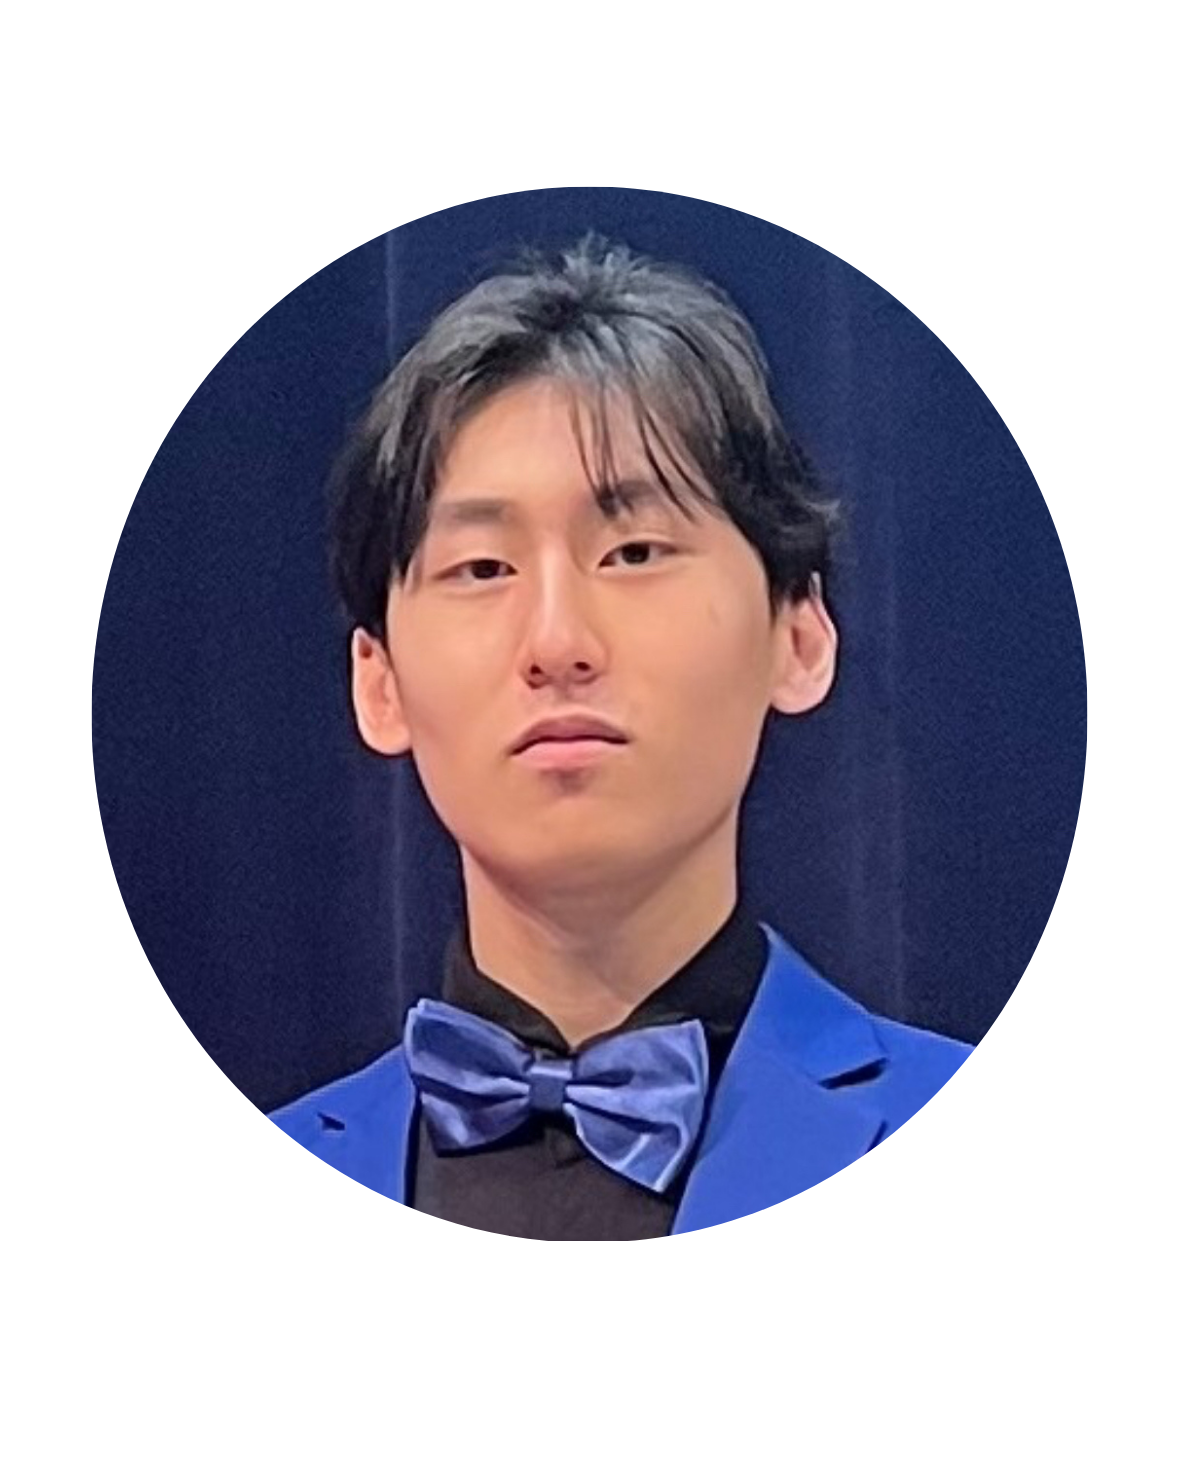
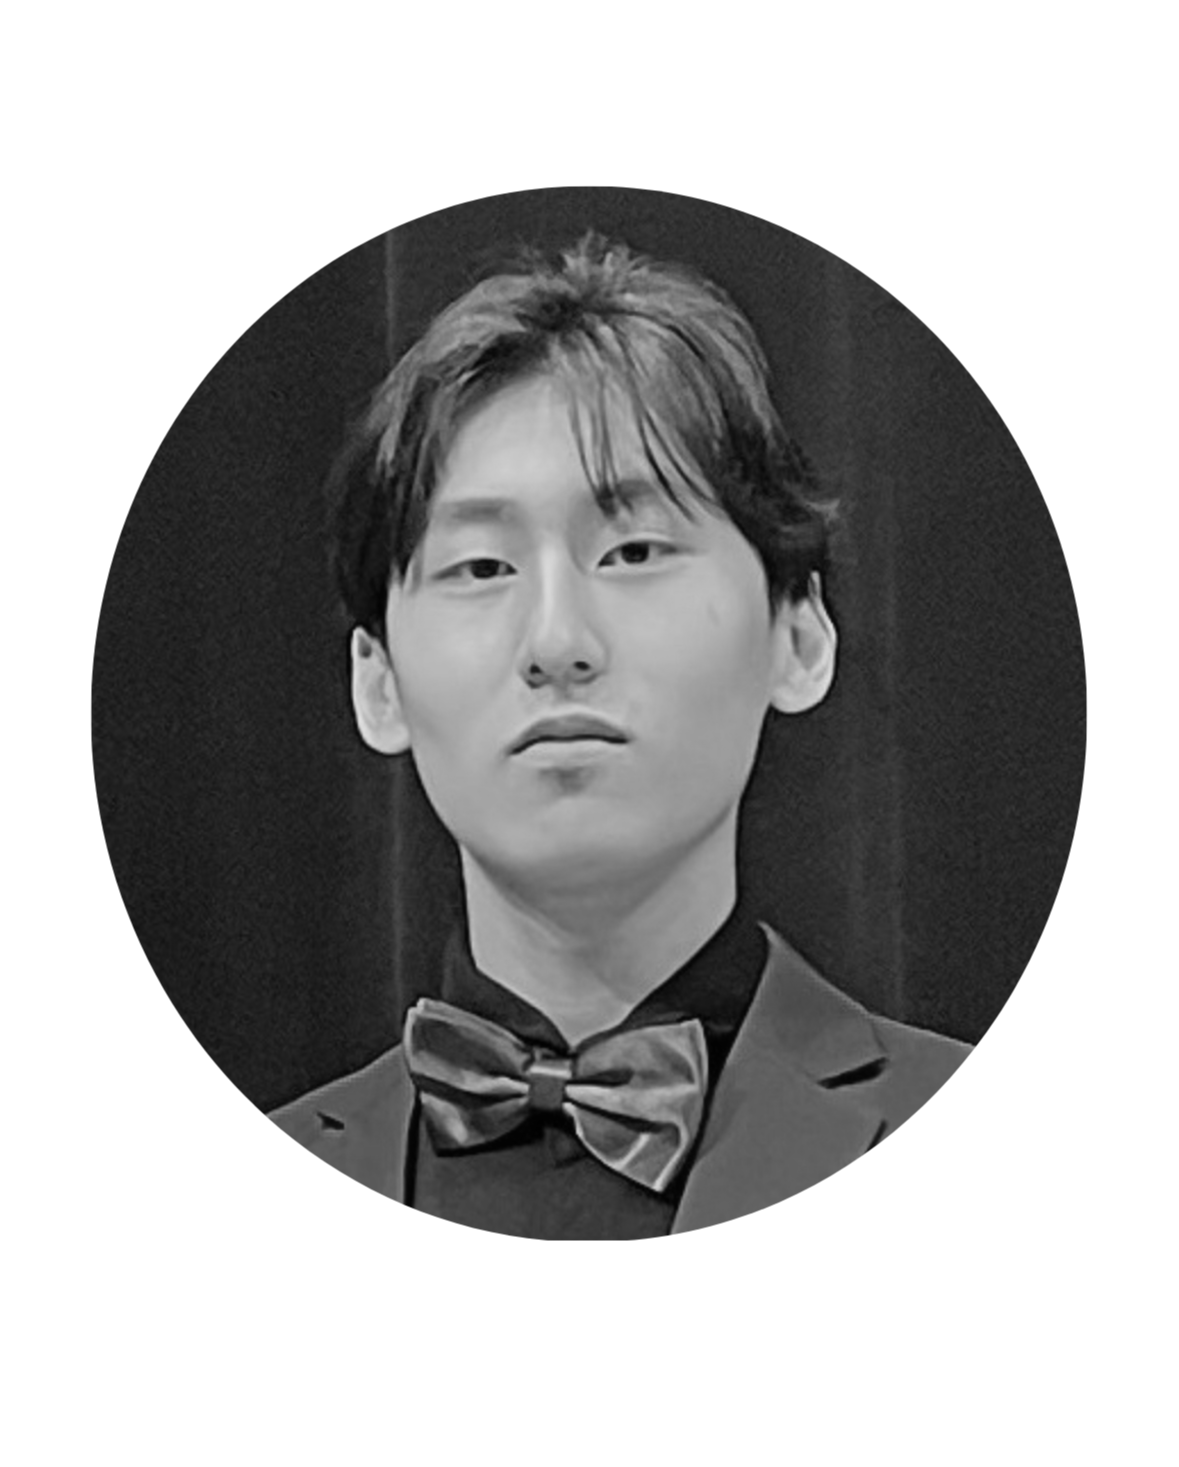
Working on color scheme/cleaning up home section

diff --git a/webportfolio/src/Home/Home.css b/webportfolio/src/Home/Home.css
@@ -1,3 +1,7 @@
+#fullHome {
+  background-color: #000;
+}
+
 #homeGrid {
   display: grid;
   grid-template-rows: auto auto;
@@ -6,7 +10,8 @@
   align-items: center;
   justify-items: center;
   margin: 0 auto;
-  margin-bottom: 200px;
+  padding-top: 100px;
+  min-height: 100vh;
 }
 
 #headshot{
@@ -18,6 +23,7 @@
 .homeText p{
   font-size: 30px;
   line-height: 40px;
+  color: rgb(245, 245, 247);
 }
 
 .buttons button {
@@ -26,10 +32,16 @@
   width: 192px;
   height: 28px;
   margin-right: 20px;
-  background-color: #0B2545;
-  color: white;
+  background-color: #000;
+  border: 2px solid rgb(161, 161, 166);
+  color: rgb(255,255,255);
   padding: 12px 20px 12px 20px;
   font-size: 18px;
+}
+
+.buttons button:hover {
+  cursor: pointer;
+  border: 2px solid rgb(255, 255, 255);
 }
 
 .faIcon{
@@ -40,8 +52,28 @@
   margin-right: 10px;
 }
 
+
 .icons img {
   width: 56px;
   height: 56px;
   margin-right: 50px;
+  border: 2px solid rgb(161, 161, 166);
+}
+
+.icons img:hover{
+  border: 2px solid rgb(255, 255, 255);
+}
+
+.icons .github {
+  height: 56px;
+  width: 120px;
+  padding: 0px 5px 0px 5px;
+  border: 2px solid rgb(161, 161, 166);
+}
+
+@media (max-width: 768px) {
+  #homeGrid {
+    grid-template-columns: auto;
+    grid-template-rows: auto;
+  }
 }

diff --git a/webportfolio/src/Header/Header.css b/webportfolio/src/Header/Header.css
@@ -1,26 +1,49 @@
 .headerContainer{
   display: flex;
+  position: fixed;
+  top: 2%;
+  left: 50%;
+  transform: translate(-50%, -50%);
   justify-content: space-between;
   align-items: center;
-  background-color: #8DA9C4;
   width: 30%;
-  margin: 0 auto;
+  min-width: 550px;
   margin-top: 20px;
   margin-bottom: 50px;
   padding: 0px 30px 0px 30px;
   border-radius: 20px;
   height: 50px;
   box-shadow: 0 0 10px rgba(0, 0, 0, 0.1);
+  z-index: 1000;
 }
 
 .headerAbout{
+  position: relative;
   text-decoration: none;
-  color: rgb(31, 41, 55);
+  color: rgba(255, 255, 255, 0.8);
   font-weight: 500;
   padding: 12px;
 }
 
-.headerAbout:visited{
-  color: rgb(31, 41, 55);
+.headerAbout::after {
+  content: '';
+  position: absolute;
+  bottom: 0;
+  left: 0;
+  width: 100%;
+  opacity: 0;
+  height: 1px;
+  background-color: rgb(255, 255, 255);
+  transition: opacity 0.3s ease;
 }
+
+.headerAbout:hover{
+  color: rgb(255, 255, 255);
+}
+
+.headerAbout:hover::after {
+  opacity: 1;
+}
+
+
 

diff --git a/webportfolio/src/Home/Home.js b/webportfolio/src/Home/Home.js
@@ -11,6 +11,7 @@ import resumepdf from "../Resume/Resume.pdf"
 
 const Home = () => {
   return (
+    <div id="fullHome">
     <section id ="homeGrid">
 
       <img src= {headshot} alt="Camera Headshot of Me" id="headshot"/>
@@ -44,10 +45,11 @@ const Home = () => {
           <img src= {linkedinLogo} alt="Linkedin Logo" className="logo"/>
         </a>
         <a href="https://github.com/terrylu12212" target="_blank" rel="noreferrer">
-          <img src= {githubLogo} alt="GitHub Logo" className="logo"/>
+          <img src= {githubLogo} alt="GitHub Logo" className="github"/>
         </a>
       </div>
     </section>
+    </div>
   )
 }
 

diff --git a/webportfolio/src/Header/Header.js b/webportfolio/src/Header/Header.js
@@ -3,7 +3,7 @@ import "./Header.css"
 const Header = () => {
   return (
     <div className="headerContainer">
-      <a href="#home" className="headerAbout">Home</a>
+      <a href="#homeGrid" className="headerAbout">Home</a>
       <a href="#about-me" className="headerAbout">About Me</a>
       <a href="#projects" className="headerAbout">Projects</a>
       <a href="#skills" className="headerAbout">Skills</a>

diff --git a/webportfolio/src/About/About.css b/webportfolio/src/About/About.css
@@ -3,12 +3,18 @@
   flex-direction: column;
   align-items: center;
   text-align: center;
-  width: 50%;
+  width: 60%;
   margin: 0 auto;
-  margin-bottom: 200px;
+  margin-bottom: 100px;
+  padding-top: 100px;
+}
+
+h2 {
+  color: rgb(245, 245, 247);
 }
 
 p {
   font-size: 18px;
   line-height: 28px;
+  color: #9C9C9C;
 }

diff --git a/webportfolio/src/index.css b/webportfolio/src/index.css
@@ -1,10 +1,11 @@
 html {
   scroll-behavior: smooth;
+  font-size: 16px;
 }
 
 body {
   margin: 0;
-  background-color: #EEF4ED;
+  background-color: rgb(20,20,20);
   font-family: 'Roboto', 'Segoe UI', 'Roboto', 'Oxygen',
     'Ubuntu', 'Cantarell', 'Fira Sans', 'Droid Sans', 'Helvetica Neue',
     sans-serif;

diff --git a/webportfolio/src/Projects/Projects.css b/webportfolio/src/Projects/Projects.css
@@ -6,7 +6,8 @@
   width: 60%;
   align-items: center;
   justify-items: center;
-  margin-bottom: 200px;
+  margin-bottom: 100px;
+  padding-top: 100px;
 }
 
 #projects .project-box{

diff --git a/webportfolio/src/Skills/Skills.css b/webportfolio/src/Skills/Skills.css
@@ -1,6 +1,7 @@
 #skills {
-  margin-bottom: 200px;
+  margin-bottom: 100px;
   text-align: center;
+  padding-top: 100px;
 }
 
 .skills-container{

diff --git a/webportfolio/src/Experience/Experience.css b/webportfolio/src/Experience/Experience.css
@@ -1,6 +1,6 @@
 #experience {
-  margin-bottom: 200px;
-  
+  margin-bottom: 100px;
+  padding-top: 100px;
 }
 
 #experience h2{

diff --git a/webportfolio/src/Contact/Contact.css b/webportfolio/src/Contact/Contact.css
@@ -1,5 +1,6 @@
 #contact-me {
   height: 1000px;
+  padding-top: 100px;
 }
 
 #contact-me h2, h3{
